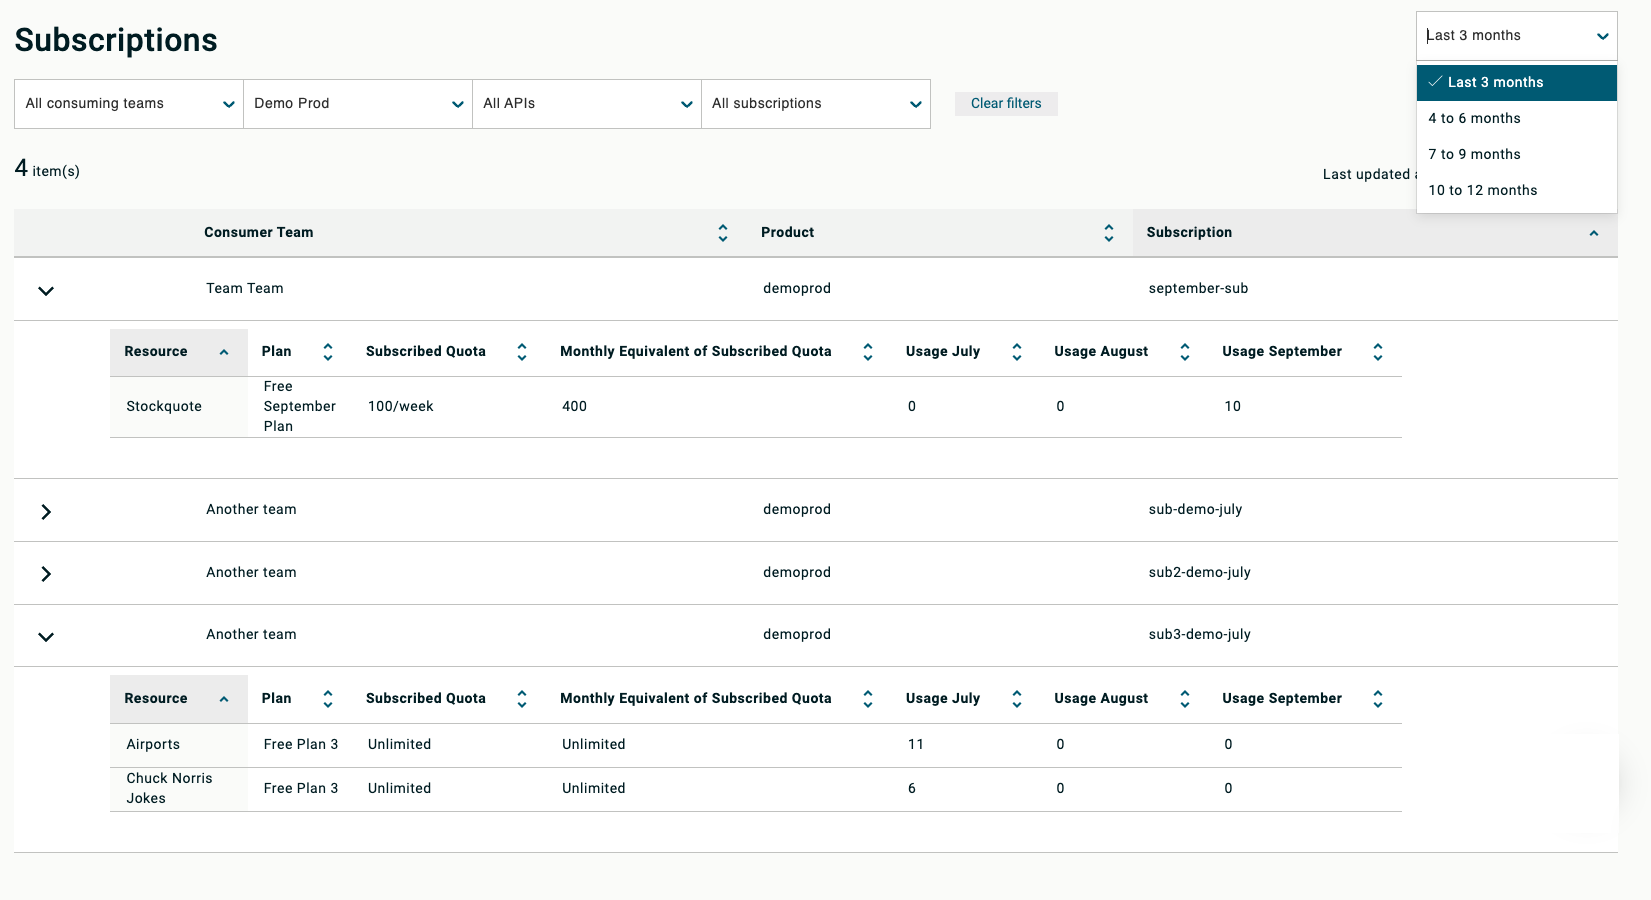
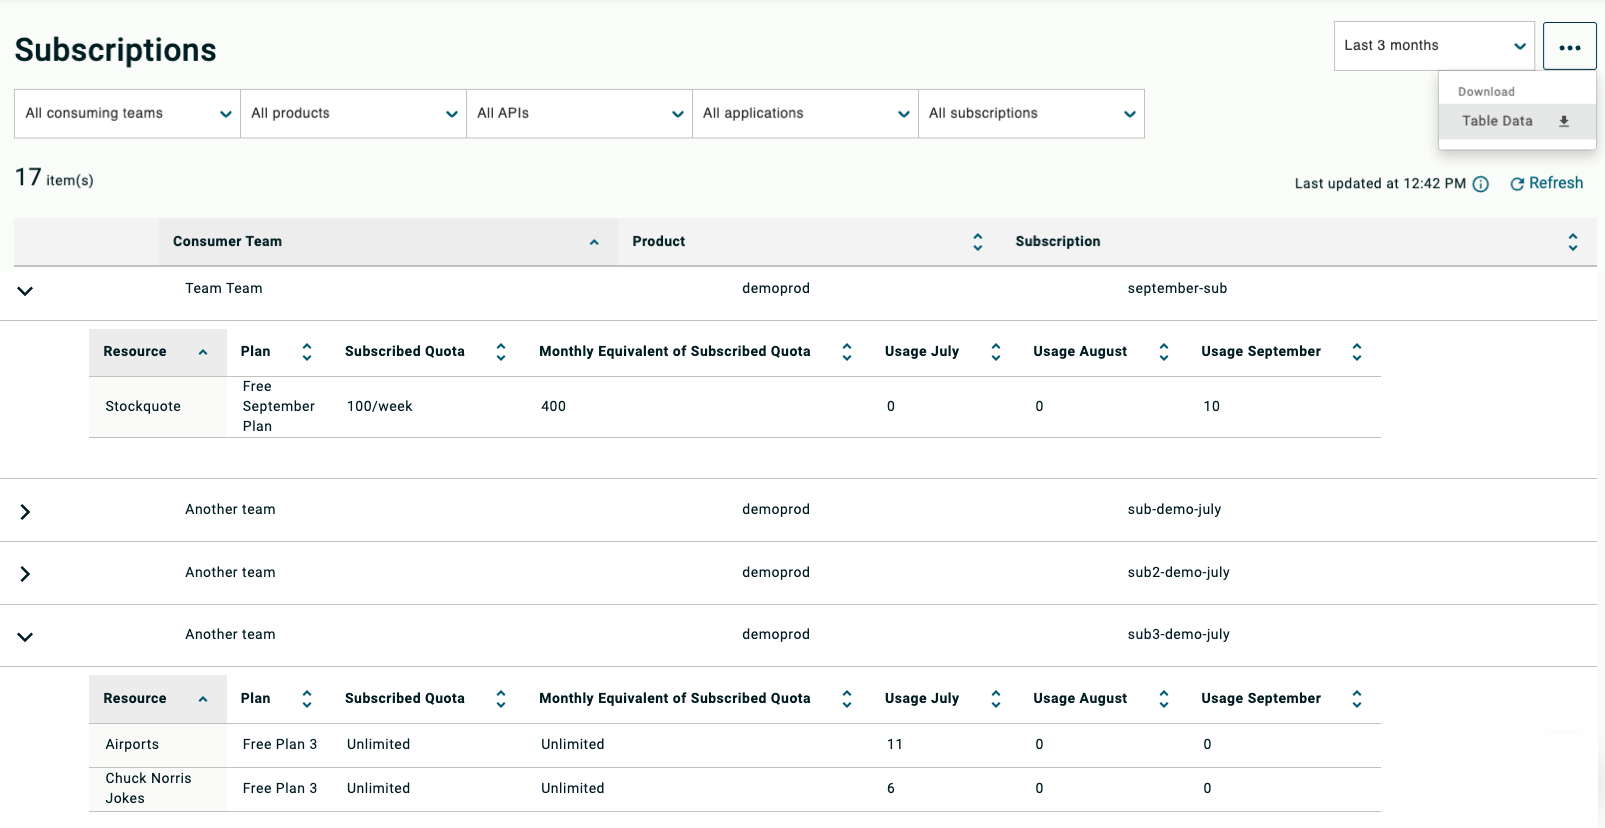
added download data feature to the subscriptions dashboard

diff --git a/content/en/docs/get_actionable_insights/business_insights.md b/content/en/docs/get_actionable_insights/business_insights.md
@@ -119,7 +119,9 @@ Click **Subscriptions** to see a list of the consumer team with their subscripti
 
 ![Example of Subscriptions](/Images/central/subscriptions.png)
 
-You can filter by consuming team, product, resource (API), subscriptions, and time range in three month increments (last 3 months, 4 to 6 months, 7 to 9 months, and 10 to 12 months).
+You can filter by consuming team, product, resource (API), application, subscription, and time range in three month increments (last 3 months, 4 to 6 months, 7 to 9 months, and 10 to 12 months).
+
+Click the **Actions (..) menu** to download the table data.
 
 Click an individual item to see quota and last three-month usage by each resource and plan in that subscription.
 
